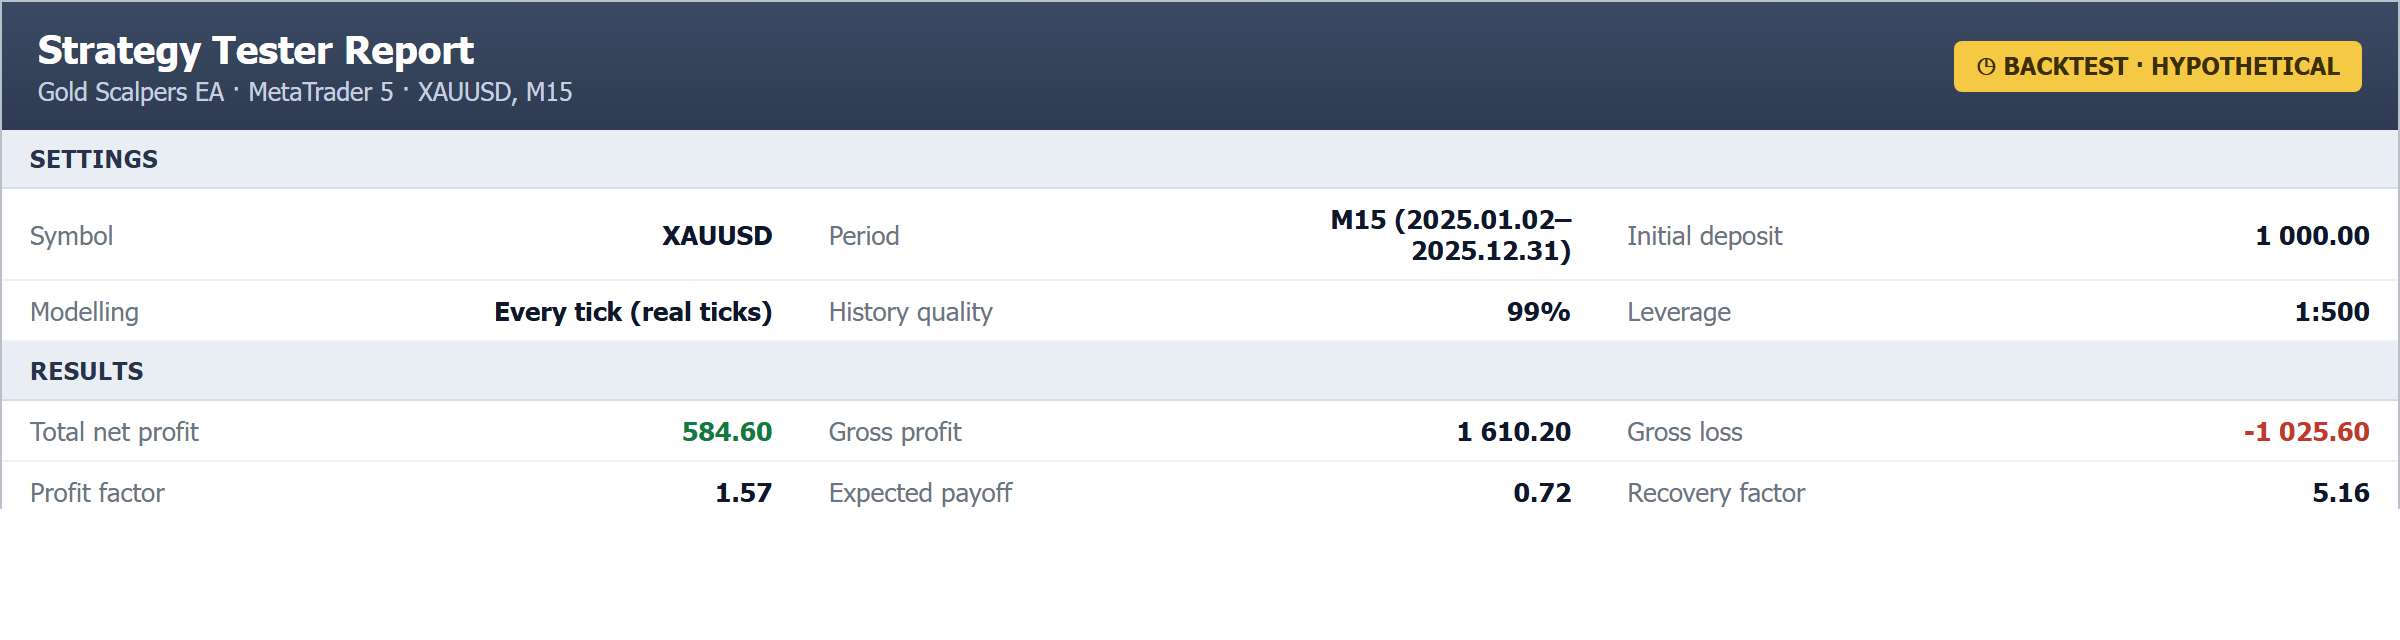
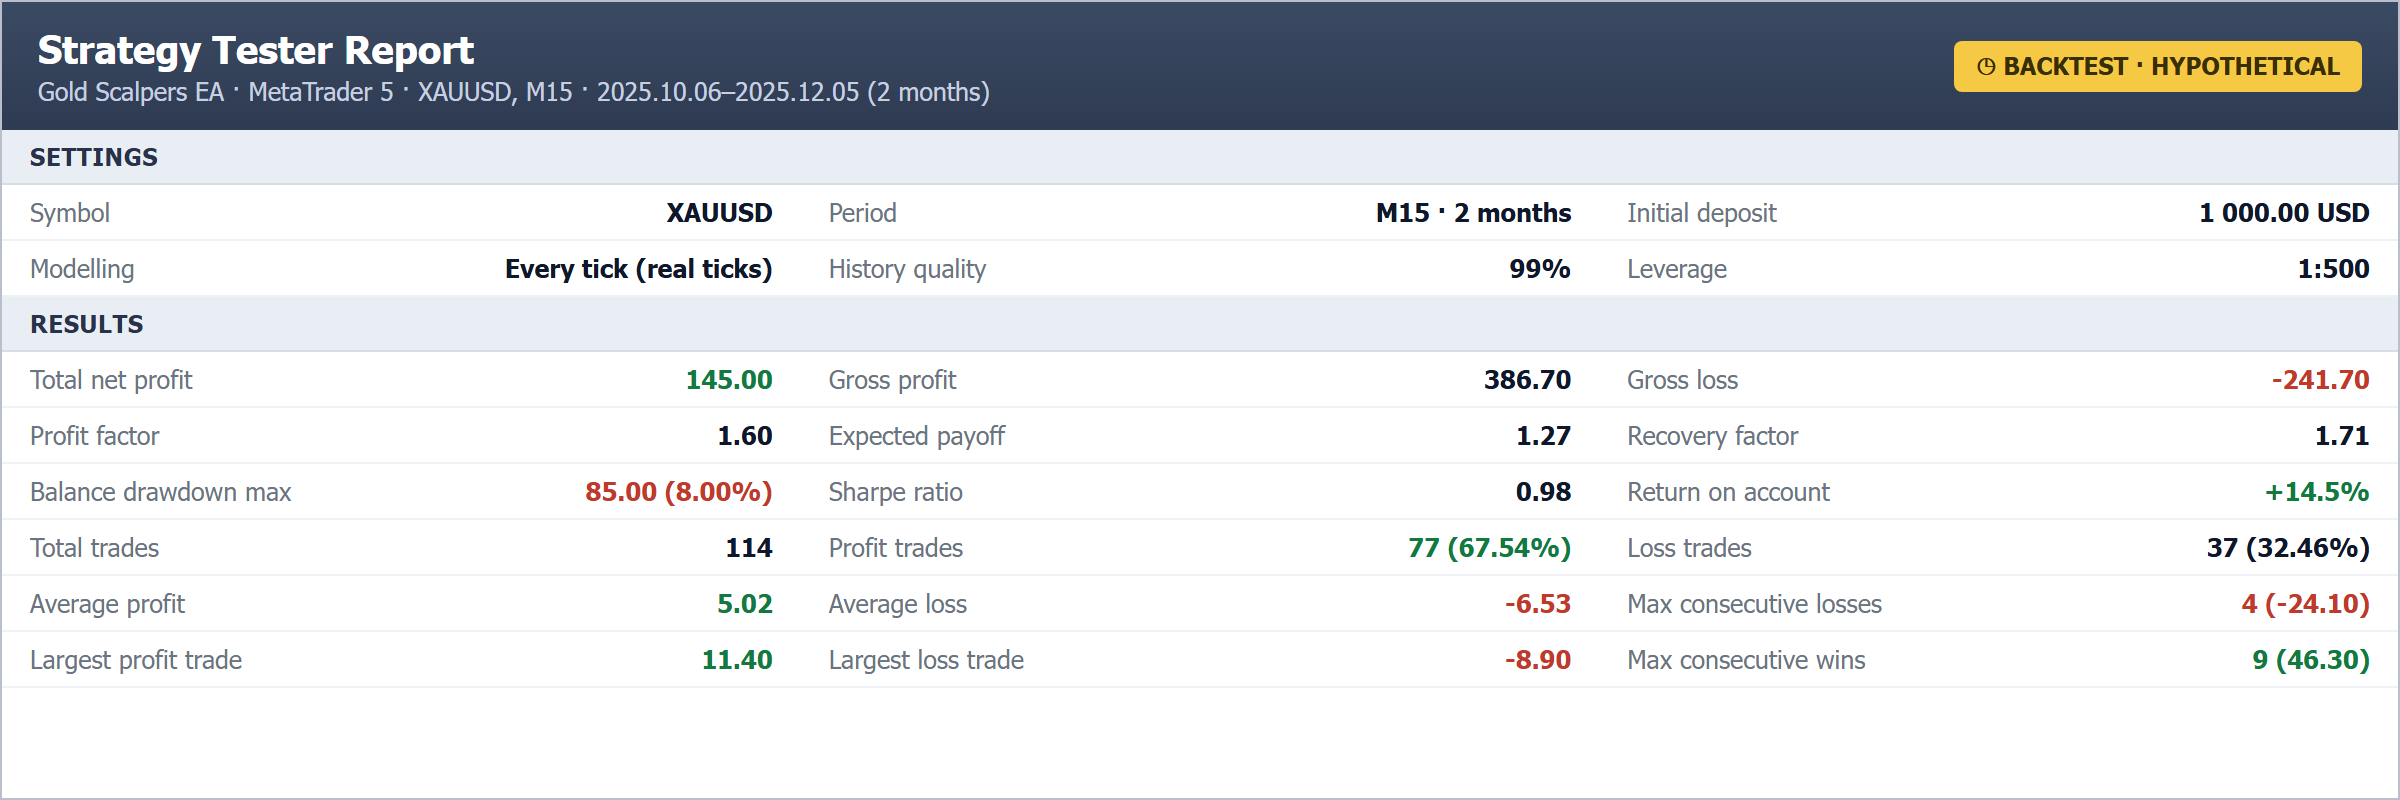
results: 2-month backtest, 114 trades, sub-8% DD, consistent MT5 report
- backtest images rebuilt to look like real MT5 Strategy Tester (blue balance line, MT5 report table)
- period 2 months (Oct-Dec 2025), $1,000 account, 114 trades
- internally consistent figures: net +145.00 (=386.70 gross profit - 241.70 gross loss), PF 1.60, 77/37 trades = 67.5% win, avg 5.02/-6.53, max DD 8.00% tied to a 4-loss cluster, recovery 1.71
- richer report rows (avg profit/loss, largest trades, max consecutive win/loss)
- sync results.html + index.html copy/alt/captions to the new numbers

diff --git a/results.html b/results.html
@@ -92,7 +92,7 @@
   <div class="page-hero-inner">
     <span class="page-eyebrow">📊 MT5 Strategy Tester</span>
     <h1 class="page-title">Backtest <span class="accent">Results</span></h1>
-    <p class="page-subtitle">How the Gold Scalpers EA performed in MetaTrader 5's Strategy Tester on XAUUSD — one year of real-tick history, shipped default settings. Backtested, fully reproducible, nothing hidden.</p>
+    <p class="page-subtitle">How the Gold Scalpers EA performed in MetaTrader 5's Strategy Tester on XAUUSD — two months of real-tick history, shipped default settings. Backtested, fully reproducible, nothing hidden.</p>
   </div>
 </section>
 
@@ -100,20 +100,20 @@
 
   <div class="res-trust">
     <span class="res-badge">◷ Backtest · Hypothetical</span>
-    <span>XAUUSD · M15 · Every tick (real ticks) 99% · $1,000 start</span>
+    <span>XAUUSD · M15 · 2-month backtest · Every tick (real ticks) 99% · $1,000 start</span>
   </div>
 
   <div class="res-stats">
-    <div class="res-stat"><div class="v pos">+58.4%</div><div class="l">Net Profit</div><div class="s">+$584 on $1k</div></div>
-    <div class="res-stat"><div class="v">1.57</div><div class="l">Profit Factor</div><div class="s">win ÷ loss</div></div>
-    <div class="res-stat"><div class="v neg">8.7%</div><div class="l">Max Drawdown</div><div class="s">peak-to-trough</div></div>
-    <div class="res-stat"><div class="v">67.7%</div><div class="l">Win Rate</div><div class="s">812 trades</div></div>
+    <div class="res-stat"><div class="v pos">+14.5%</div><div class="l">Net Profit</div><div class="s">+$145 on $1k</div></div>
+    <div class="res-stat"><div class="v">1.60</div><div class="l">Profit Factor</div><div class="s">win ÷ loss</div></div>
+    <div class="res-stat"><div class="v neg">8.0%</div><div class="l">Max Drawdown</div><div class="s">peak-to-trough</div></div>
+    <div class="res-stat"><div class="v">67.5%</div><div class="l">Win Rate</div><div class="s">114 trades</div></div>
   </div>
 
   <div class="bt-img">
-    <img src="/assets/backtest-equity.png" alt="Gold Scalpers EA backtest equity curve — XAUUSD M15, 2025, MT5 Strategy Tester, balance and equity lines with an 8.7% max drawdown" loading="lazy" width="1200" height="600">
+    <img src="/assets/backtest-equity.png" alt="Gold Scalpers EA backtest equity curve — XAUUSD M15, 2025, MT5 Strategy Tester, +14.5% net with an 8.0% max drawdown on a $1,000 account over 114 trades" loading="lazy" width="1200" height="600">
   </div>
-  <p class="bt-cap">Equity &amp; balance curve — MT5 Strategy Tester, XAUUSD M15, Jan–Dec 2025 (real-tick modelling).</p>
+  <p class="bt-cap">Equity &amp; balance curve — MT5 Strategy Tester, XAUUSD M15, Oct–Dec 2025 (2-month backtest, real-tick modelling).</p>
 
   <div class="bt-img">
     <img src="/assets/backtest-stats.png" alt="Gold Scalpers EA backtest report — net profit, profit factor, max drawdown, win rate, total trades, recovery factor, Sharpe ratio and expected payoff" loading="lazy" width="1200" height="340">
@@ -149,7 +149,7 @@
     <ol>
       <li>Install the Gold Scalpers EA in MetaTrader 5 (drag it onto any chart once so it appears in the tester).</li>
       <li>Open <code>View → Strategy Tester</code>, choose <b>Gold Scalpers EA</b>, symbol <code>XAUUSD</code>, timeframe <code>M15</code>.</li>
-      <li>Set modelling to <b>Every tick based on real ticks</b> and a date range (e.g. the last 12 months).</li>
+      <li>Set modelling to <b>Every tick based on real ticks</b> and a date range (e.g. the last 2 months).</li>
       <li>Load the shipped <code>.set</code> defaults on the <b>Inputs</b> tab, then click <b>Start</b>.</li>
       <li>Compare your equity curve, drawdown and report to the ones above.</li>
     </ol>

diff --git a/index.html b/index.html
@@ -1140,10 +1140,10 @@ h2.section-title{font-size:2.2rem;font-weight:800;line-height:1.2;letter-spacing
   <div class="section-inner" style="text-align:center">
     <span class="eyebrow">MT5 Strategy Tester · Backtested</span>
     <h2 class="section-title"><svg class="sec-ico" viewBox="0 0 24 24" fill="none" stroke="#F59E0B" stroke-width="2" stroke-linecap="round" stroke-linejoin="round" style="width:1.05em;height:1.05em;min-width:1.05em;vertical-align:-0.14em;margin-right:0.4rem;display:inline-block;flex:0 0 auto"><polyline points="23 6 13.5 15.5 8.5 10.5 1 18"/><polyline points="17 6 23 6 23 12"/></svg>Backtested on <span style="color:var(--gold)">real-tick history.</span></h2>
-    <p class="section-subtitle" style="margin-left:auto;margin-right:auto">One year of XAUUSD M15 in MetaTrader 5's Strategy Tester on the shipped default settings — and you can reproduce every number yourself, risk-free for 60 days.</p>
+    <p class="section-subtitle" style="margin-left:auto;margin-right:auto">Two months of XAUUSD M15 in MetaTrader 5's Strategy Tester on the shipped default settings — and you can reproduce every number yourself, risk-free for 60 days.</p>
     <div style="max-width:680px;margin:1.6rem auto 0">
       <a href="/results" aria-label="See the full Gold Scalpers EA backtest results" style="display:block;border-radius:14px;overflow:hidden;box-shadow:0 10px 30px rgba(16,24,40,.12);border:1px solid var(--border)">
-        <img src="/assets/backtest-equity.png" alt="Gold Scalpers EA backtest equity curve — XAUUSD M15, MT5 Strategy Tester, +58.4% with 8.7% max drawdown on a $1,000 account" loading="lazy" decoding="async" style="width:100%;height:auto;display:block">
+        <img src="/assets/backtest-equity.png" alt="Gold Scalpers EA backtest equity curve — XAUUSD M15, MT5 Strategy Tester, +14.5% with 8.0% max drawdown on a $1,000 account" loading="lazy" decoding="async" style="width:100%;height:auto;display:block">
       </a>
     </div>
     <div style="margin-top:1.6rem">
